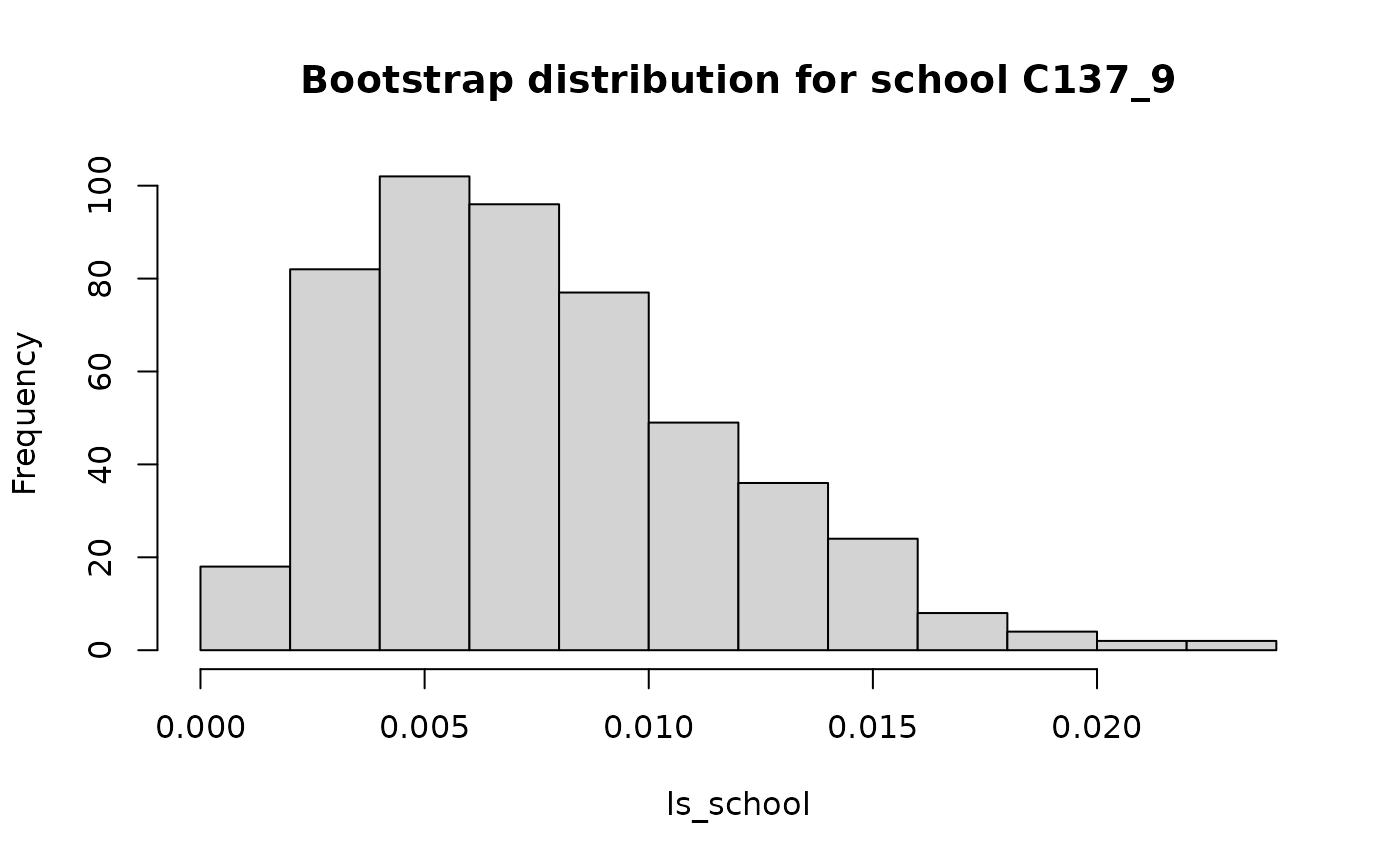
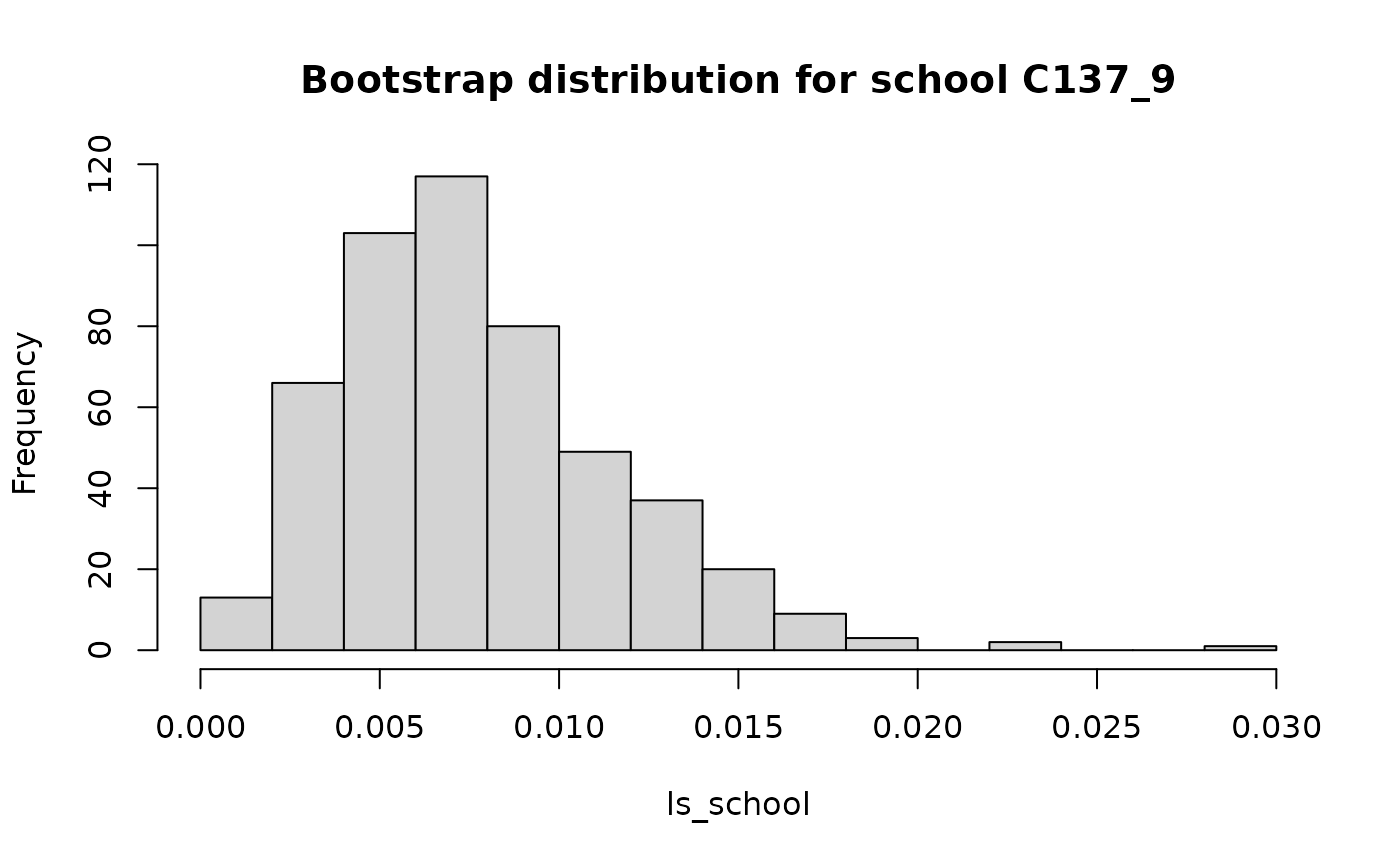
Deploying to gh-pages from @ elbersb/segregation@8025ab54bc8f656e3804a8060f41f11b0b18a2a5 🚀

diff --git a/articles/segregation.html b/articles/segregation.html
@@ -211,8 +211,8 @@ H(\mathbf{T})=\frac{M(\mathbf{T})}{E(\mathbf{T})},
 <span>             se <span class="op">=</span> <span class="cn">TRUE</span>, CI <span class="op">=</span> <span class="fl">.95</span>, n_bootstrap <span class="op">=</span> <span class="fl">500</span><span class="op">)</span></span>
 <span><span class="co">#&gt; 500 bootstrap iterations on 877739 observations</span></span>
 <span><span class="co">#&gt;    stat       est           se                  CI        bias</span></span>
-<span><span class="co">#&gt; 1:    M 0.4219146 0.0007638674 0.4204501,0.4234843 0.003624337</span></span>
-<span><span class="co">#&gt; 2:    H 0.4152301 0.0007029952 0.4139249,0.4165911 0.003578254</span></span></code></pre></div>
+<span><span class="co">#&gt; 1:    M 0.4219891 0.0008326237 0.4203962,0.4235104 0.003549915</span></span>
+<span><span class="co">#&gt; 2:    H 0.4153086 0.0007655977 0.4138541,0.4168216 0.003499698</span></span></code></pre></div>
 <p>As there a large number of observations, the standard errors are very small.</p>
 </div>
 <div class="section level2">
@@ -351,17 +351,17 @@ H(\mathbf{T})=H(\mathbf{S}) + \sum_{s=1}^S \frac{E(\mathbf{T}_s)}{E(\mathbf{T})}
 <span>                    se <span class="op">=</span> <span class="cn">TRUE</span>, CI <span class="op">=</span> <span class="fl">.95</span>, n_bootstrap <span class="op">=</span> <span class="fl">500</span><span class="op">)</span><span class="op">)</span></span>
 <span><span class="co">#&gt; 500 bootstrap iterations on 877739 observations</span></span>
 <span><span class="co">#&gt;    stat       est           se                  CI        bias</span></span>
-<span><span class="co">#&gt; 1:    M 0.4219347 0.0007994413 0.4204412,0.4234272 0.003604250</span></span>
-<span><span class="co">#&gt; 2:    H 0.4152714 0.0007163031 0.4138678,0.4166222 0.003536937</span></span></code></pre></div>
+<span><span class="co">#&gt; 1:    M 0.4219207 0.0007595129 0.4204573,0.4233053 0.003618262</span></span>
+<span><span class="co">#&gt; 2:    H 0.4152500 0.0007090493 0.4138261,0.4165315 0.003558325</span></span></code></pre></div>
 <p>The confidence intervals are based on the percentiles from the bootstrap distribution, and hence require a large number of bootstrap iterations for valid interpretation. The estimate <code>est</code> that is reported in the results has already been “debiased”, i.e. the bias that has been estimated from the bootstrap distribution (which is reported in <code>bias</code>) has been subtracted from the usual maximum-likelihood estimate that we would obtain from <code>mutual_total</code> with <code>se = FALSE</code>. The confidence interval is centered around the debiased estimate.</p>
 <p>On balance, confidence intervals are preferred over the standard error because the bootstrap distribution can be skewed, especially when segregation is very low or very high. For this example, we can see that the standard errors provide almost identical coverage to the confidence intervals, as</p>
 <div class="sourceCode" id="cb17"><pre class="downlit sourceCode r">
 <code class="sourceCode R"><span><span class="co"># M</span></span>
 <span><span class="fu"><a href="https://rdrr.io/r/base/with.html" class="external-link">with</a></span><span class="op">(</span><span class="va">se</span>, <span class="fu"><a href="https://rdrr.io/r/base/c.html" class="external-link">c</a></span><span class="op">(</span><span class="va">est</span><span class="op">[</span><span class="fl">1</span><span class="op">]</span> <span class="op">-</span> <span class="fl">1.96</span> <span class="op">*</span> <span class="va">se</span><span class="op">[</span><span class="fl">1</span><span class="op">]</span>, <span class="va">est</span><span class="op">[</span><span class="fl">1</span><span class="op">]</span> <span class="op">+</span> <span class="fl">1.96</span> <span class="op">*</span> <span class="va">se</span><span class="op">[</span><span class="fl">1</span><span class="op">]</span><span class="op">)</span><span class="op">)</span></span>
-<span><span class="co">#&gt; [1] 0.4203678 0.4235016</span></span>
+<span><span class="co">#&gt; [1] 0.4204321 0.4234094</span></span>
 <span><span class="co"># H</span></span>
 <span><span class="fu"><a href="https://rdrr.io/r/base/with.html" class="external-link">with</a></span><span class="op">(</span><span class="va">se</span>, <span class="fu"><a href="https://rdrr.io/r/base/c.html" class="external-link">c</a></span><span class="op">(</span><span class="va">est</span><span class="op">[</span><span class="fl">2</span><span class="op">]</span> <span class="op">-</span> <span class="fl">1.96</span> <span class="op">*</span> <span class="va">se</span><span class="op">[</span><span class="fl">2</span><span class="op">]</span>, <span class="va">est</span><span class="op">[</span><span class="fl">2</span><span class="op">]</span> <span class="op">+</span> <span class="fl">1.96</span> <span class="op">*</span> <span class="va">se</span><span class="op">[</span><span class="fl">2</span><span class="op">]</span><span class="op">)</span><span class="op">)</span></span>
-<span><span class="co">#&gt; [1] 0.4138674 0.4166753</span></span></code></pre></div>
+<span><span class="co">#&gt; [1] 0.4138603 0.4166397</span></span></code></pre></div>
 <p>provide effectively the same coverage as the confidence intervals obtained from the percentile bootstrap.</p>
 <p>Whenever the bootstrap is used, the bootstrap distributions for each parameter are reported in an attribute <code>bootstrap</code> of the returned object. This can be used, for instance, to check whether the bootstrap distribution is skewed. The following code computes local segregation scores for all schools, and then shows a histogram of the bootstrap distribution for school C137_9, which has a very low local segregation score:</p>
 <div class="sourceCode" id="cb18"><pre class="downlit sourceCode r">
@@ -377,8 +377,8 @@ H(\mathbf{T})=H(\mathbf{S}) + \sum_{s=1}^S \frac{E(\mathbf{T}_s)}{E(\mathbf{T})}
 <div class="sourceCode" id="cb19"><pre class="downlit sourceCode r">
 <code class="sourceCode R"><span><span class="fu"><a href="../reference/mutual_expected.html">mutual_expected</a></span><span class="op">(</span><span class="va">schools00</span>, <span class="st">"race"</span>, <span class="st">"school"</span>, weight <span class="op">=</span> <span class="st">"n"</span>, n_bootstrap <span class="op">=</span> <span class="fl">500</span><span class="op">)</span></span>
 <span><span class="co">#&gt;         stat         est           se</span></span>
-<span><span class="co">#&gt; 1: M under 0 0.004806534 7.293764e-05</span></span>
-<span><span class="co">#&gt; 2: H under 0 0.004730510 7.178400e-05</span></span></code></pre></div>
+<span><span class="co">#&gt; 1: M under 0 0.004804280 7.762305e-05</span></span>
+<span><span class="co">#&gt; 2: H under 0 0.004728292 7.639530e-05</span></span></code></pre></div>
 <p>Here, there is no concern about bias due to a small sample size.</p>
 </div>
 <div class="section level2">

diff --git a/reference/mutual_difference.html b/reference/mutual_difference.html
@@ -256,15 +256,15 @@ the change in M that is induced by these cases as
 <span class="r-in"><span><span class="co"># using the Shapley method</span></span></span>
 <span class="r-in"><span><span class="fu">mutual_difference</span><span class="op">(</span><span class="va">schools00</span>, <span class="va">schools05</span>, group <span class="op">=</span> <span class="st">"race"</span>, unit <span class="op">=</span> <span class="st">"school"</span>,</span></span>
 <span class="r-in"><span>    weight <span class="op">=</span> <span class="st">"n"</span>, method <span class="op">=</span> <span class="st">"shapley"</span>, precision <span class="op">=</span> <span class="fl">.1</span><span class="op">)</span></span></span>
-<span class="r-out co"><span class="r-pr">#&gt;</span>              stat           est</span>
-<span class="r-out co"><span class="r-pr">#&gt;</span> 1:             M1  0.4255389759</span>
-<span class="r-out co"><span class="r-pr">#&gt;</span> 2:             M2  0.4133850920</span>
-<span class="r-out co"><span class="r-pr">#&gt;</span> 3:           diff -0.0121538839</span>
-<span class="r-out co"><span class="r-pr">#&gt;</span> 4:      additions -0.0034127763</span>
-<span class="r-out co"><span class="r-pr">#&gt;</span> 5:       removals -0.0114050931</span>
-<span class="r-out co"><span class="r-pr">#&gt;</span> 6: group_marginal  0.0178548351</span>
-<span class="r-out co"><span class="r-pr">#&gt;</span> 7:  unit_marginal -0.0006253522</span>
-<span class="r-out co"><span class="r-pr">#&gt;</span> 8:     structural -0.0145654974</span>
+<span class="r-out co"><span class="r-pr">#&gt;</span>              stat          est</span>
+<span class="r-out co"><span class="r-pr">#&gt;</span> 1:             M1  0.425538976</span>
+<span class="r-out co"><span class="r-pr">#&gt;</span> 2:             M2  0.413385092</span>
+<span class="r-out co"><span class="r-pr">#&gt;</span> 3:           diff -0.012153884</span>
+<span class="r-out co"><span class="r-pr">#&gt;</span> 4:      additions -0.003412776</span>
+<span class="r-out co"><span class="r-pr">#&gt;</span> 5:       removals -0.011405093</span>
+<span class="r-out co"><span class="r-pr">#&gt;</span> 6: group_marginal  0.009867254</span>
+<span class="r-out co"><span class="r-pr">#&gt;</span> 7:  unit_marginal -0.009867254</span>
+<span class="r-out co"><span class="r-pr">#&gt;</span> 8:     structural  0.002663986</span>
 <span class="r-in"><span><span class="co"># =&gt; the structural component is close to zero, thus most change is in the marginals.</span></span></span>
 <span class="r-in"><span><span class="co"># This method gives identical results when we switch the unit and group definitions,</span></span></span>
 <span class="r-in"><span><span class="co"># and when we switch the data inputs.</span></span></span>
@@ -280,8 +280,8 @@ the change in M that is induced by these cases as
 <span class="r-out co"><span class="r-pr">#&gt;</span> 5:       removals -0.011405093</span>
 <span class="r-out co"><span class="r-pr">#&gt;</span> 6: group_marginal -0.020609129</span>
 <span class="r-out co"><span class="r-pr">#&gt;</span> 7:  unit_marginal  0.017497722</span>
-<span class="r-out co"><span class="r-pr">#&gt;</span> 8:    interaction  0.003111406</span>
-<span class="r-out co"><span class="r-pr">#&gt;</span> 9:     structural  0.002663986</span>
+<span class="r-out co"><span class="r-pr">#&gt;</span> 8:    interaction -0.017497722</span>
+<span class="r-out co"><span class="r-pr">#&gt;</span> 9:     structural  0.023273114</span>
 <span class="r-in"><span></span></span>
 <span class="r-in"><span><span class="co"># ...this means that the results won't be identical when we switch the data inputs</span></span></span>
 <span class="r-in"><span><span class="fu">mutual_difference</span><span class="op">(</span><span class="va">schools05</span>, <span class="va">schools00</span>, group <span class="op">=</span> <span class="st">"school"</span>, unit <span class="op">=</span> <span class="st">"race"</span>,</span></span>

diff --git a/reference/mutual_expected.html b/reference/mutual_expected.html
@@ -143,9 +143,9 @@ Defaults to the natural logarithm.</p></dd>
     <h2>Examples</h2>
     <div class="sourceCode"><pre class="sourceCode r"><code><span class="r-in"><span><span class="co"># the schools00 dataset has a large sample size, so expected segregation is close to zero</span></span></span>
 <span class="r-in"><span><span class="fu">mutual_expected</span><span class="op">(</span><span class="va">schools00</span>, <span class="st">"race"</span>, <span class="st">"school"</span>, weight <span class="op">=</span> <span class="st">"n"</span><span class="op">)</span></span></span>
-<span class="r-out co"><span class="r-pr">#&gt;</span>         stat         est           se</span>
-<span class="r-out co"><span class="r-pr">#&gt;</span> 1: M under 0 0.004816432 7.283338e-05</span>
-<span class="r-out co"><span class="r-pr">#&gt;</span> 2: H under 0 0.004740252 7.168139e-05</span>
+<span class="r-out co"><span class="r-pr">#&gt;</span>         stat         est          se</span>
+<span class="r-out co"><span class="r-pr">#&gt;</span> 1: M under 0 0.004809827 7.53947e-05</span>
+<span class="r-out co"><span class="r-pr">#&gt;</span> 2: H under 0 0.004733751 7.42022e-05</span>
 <span class="r-in"><span></span></span>
 <span class="r-in"><span><span class="co"># but we can build a smaller table, with 100 students distributed across</span></span></span>
 <span class="r-in"><span><span class="co"># 10 schools, where one racial group has 10% of the students</span></span></span>
@@ -156,14 +156,14 @@ Defaults to the natural logarithm.</p></dd>
 <span class="r-in"><span><span class="op">)</span></span></span>
 <span class="r-in"><span><span class="fu">mutual_expected</span><span class="op">(</span><span class="va">small</span>, <span class="st">"race"</span>, <span class="st">"school"</span>, weight <span class="op">=</span> <span class="st">"n"</span><span class="op">)</span></span></span>
 <span class="r-out co"><span class="r-pr">#&gt;</span>         stat        est         se</span>
-<span class="r-out co"><span class="r-pr">#&gt;</span> 1: M under 0 0.05507728 0.01701278</span>
-<span class="r-out co"><span class="r-pr">#&gt;</span> 2: H under 0 0.16942529 0.05233364</span>
+<span class="r-out co"><span class="r-pr">#&gt;</span> 1: M under 0 0.05811505 0.02179601</span>
+<span class="r-out co"><span class="r-pr">#&gt;</span> 2: H under 0 0.17876991 0.06704753</span>
 <span class="r-in"><span><span class="co"># with an increase in sample size (n=1000), the values improve</span></span></span>
 <span class="r-in"><span><span class="va">small</span><span class="op">$</span><span class="va">n</span> <span class="op">&lt;-</span> <span class="va">small</span><span class="op">$</span><span class="va">n</span> <span class="op">*</span> <span class="fl">10</span></span></span>
 <span class="r-in"><span><span class="fu">mutual_expected</span><span class="op">(</span><span class="va">small</span>, <span class="st">"race"</span>, <span class="st">"school"</span>, weight <span class="op">=</span> <span class="st">"n"</span><span class="op">)</span></span></span>
 <span class="r-out co"><span class="r-pr">#&gt;</span>         stat         est          se</span>
-<span class="r-out co"><span class="r-pr">#&gt;</span> 1: M under 0 0.004402319 0.002080333</span>
-<span class="r-out co"><span class="r-pr">#&gt;</span> 2: H under 0 0.013542138 0.006399391</span>
+<span class="r-out co"><span class="r-pr">#&gt;</span> 1: M under 0 0.004547738 0.002164109</span>
+<span class="r-out co"><span class="r-pr">#&gt;</span> 2: H under 0 0.013989467 0.006657097</span>
 </code></pre></div>
     </div>
   </div>

diff --git a/reference/dissimilarity_expected.html b/reference/dissimilarity_expected.html
@@ -137,13 +137,13 @@ over which segregation is computed.</p></dd>
 <span class="r-in"><span>    n <span class="op">=</span> <span class="fu"><a href="https://rdrr.io/r/base/c.html" class="external-link">c</a></span><span class="op">(</span><span class="fu"><a href="https://rdrr.io/r/base/rep.html" class="external-link">rep</a></span><span class="op">(</span><span class="fl">1</span>, <span class="fl">10</span><span class="op">)</span>, <span class="fu"><a href="https://rdrr.io/r/base/rep.html" class="external-link">rep</a></span><span class="op">(</span><span class="fl">9</span>, <span class="fl">10</span><span class="op">)</span><span class="op">)</span></span></span>
 <span class="r-in"><span><span class="op">)</span></span></span>
 <span class="r-in"><span><span class="fu">dissimilarity_expected</span><span class="op">(</span><span class="va">small</span>, <span class="st">"race"</span>, <span class="st">"school"</span>, weight <span class="op">=</span> <span class="st">"n"</span><span class="op">)</span></span></span>
-<span class="r-out co"><span class="r-pr">#&gt;</span>         stat       est         se</span>
-<span class="r-out co"><span class="r-pr">#&gt;</span> 1: D under 0 0.3788889 0.09874509</span>
+<span class="r-out co"><span class="r-pr">#&gt;</span>         stat       est        se</span>
+<span class="r-out co"><span class="r-pr">#&gt;</span> 1: D under 0 0.3722222 0.1075466</span>
 <span class="r-in"><span><span class="co"># with an increase in sample size (n=1000), the values improve</span></span></span>
 <span class="r-in"><span><span class="va">small</span><span class="op">$</span><span class="va">n</span> <span class="op">&lt;-</span> <span class="va">small</span><span class="op">$</span><span class="va">n</span> <span class="op">*</span> <span class="fl">10</span></span></span>
 <span class="r-in"><span><span class="fu">dissimilarity_expected</span><span class="op">(</span><span class="va">small</span>, <span class="st">"race"</span>, <span class="st">"school"</span>, weight <span class="op">=</span> <span class="st">"n"</span><span class="op">)</span></span></span>
 <span class="r-out co"><span class="r-pr">#&gt;</span>         stat       est         se</span>
-<span class="r-out co"><span class="r-pr">#&gt;</span> 1: D under 0 0.1285556 0.03218195</span>
+<span class="r-out co"><span class="r-pr">#&gt;</span> 1: D under 0 0.1256667 0.03341535</span>
 </code></pre></div>
     </div>
   </div>

diff --git a/news/index.html b/news/index.html
@@ -69,7 +69,7 @@
 <li>add within argument to mutual_expected</li>
 <li>add dissimilarity_expected</li>
 <li>add suite of compression-related functions</li>
-<li>add seg_plot function</li>
+<li>add segplot function</li>
 <li>add functions exposure and isolation</li>
 </ul></div>
     <div class="section level2">
